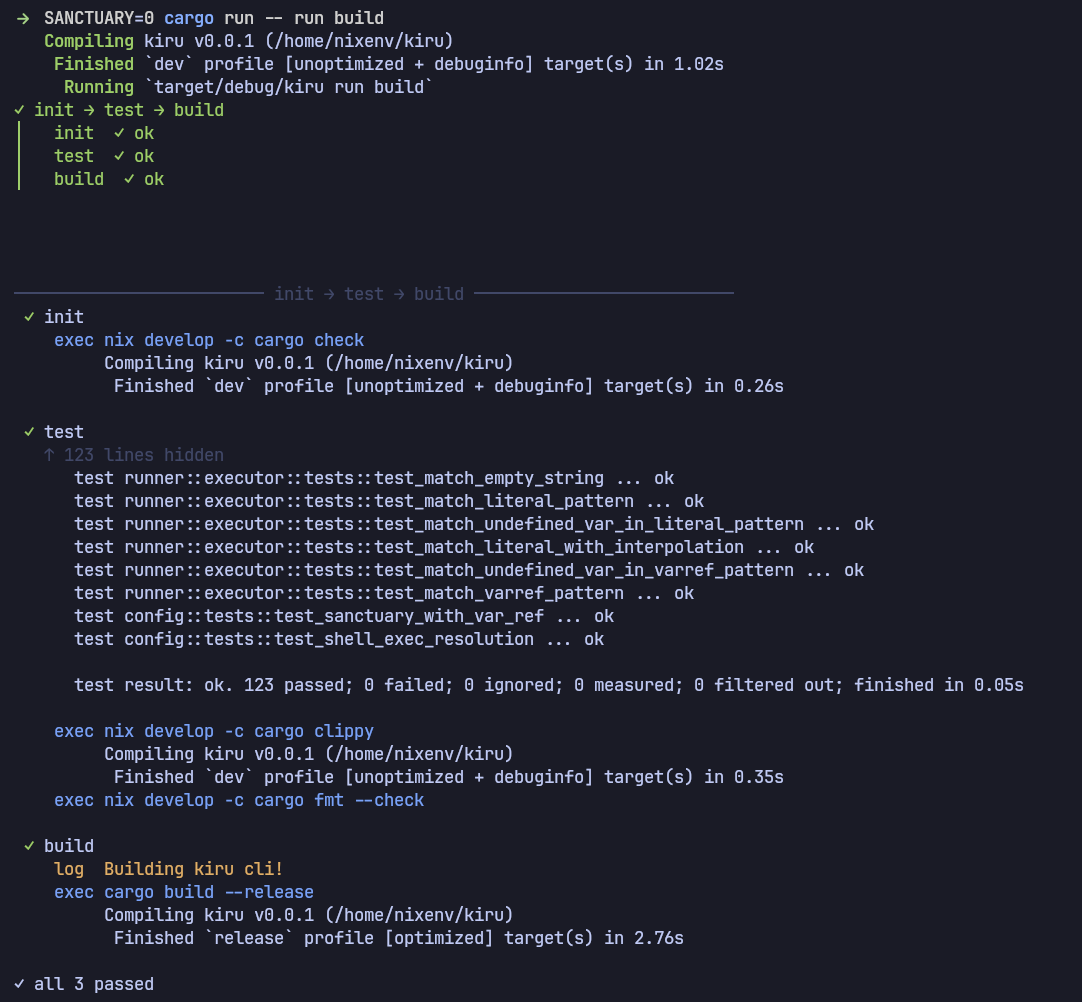
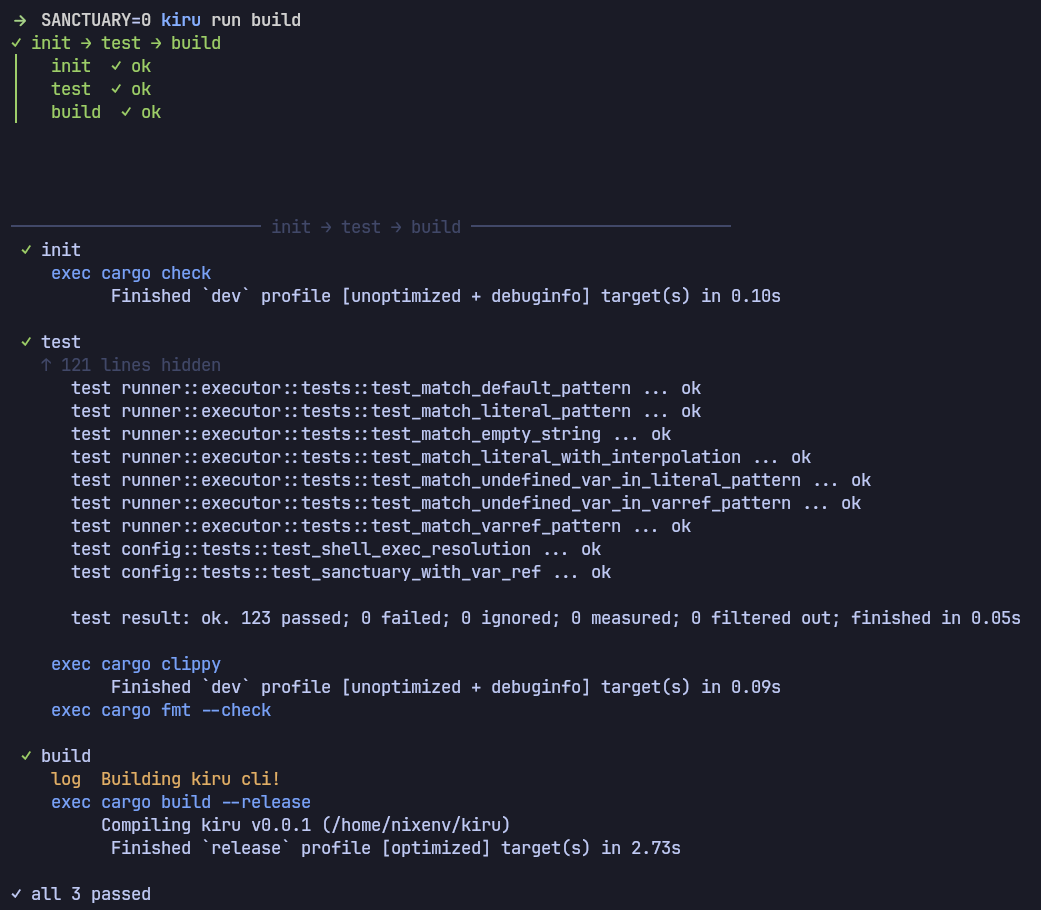
Installation script

diff --git a/README.md b/README.md
@@ -27,9 +27,15 @@ You switch machines. You have fifteen repos. You have a different setup script p
 
 **`run`** — orchestration block. concurrent chains of sequential function calls. each chain runs in order; chains run concurrently.
 
-**TUI** — interactive terminal UI during `run`. shows chain headers, live spinner per task, and status colors. press `q` or `Ctrl+C` to abort. after completion, a colored ANSI dump shows full output per task.
-
 ---
+
+## Installation
+
+You can grab the binary from [Releases](https://github.com/infraflakes/kiru/releases) or use this script:
+
+```bash
+curl -sSf https://raw.githubusercontent.com/infraflakes/kiru/main/install.sh | sh
+```
 
 ## Usage
 
